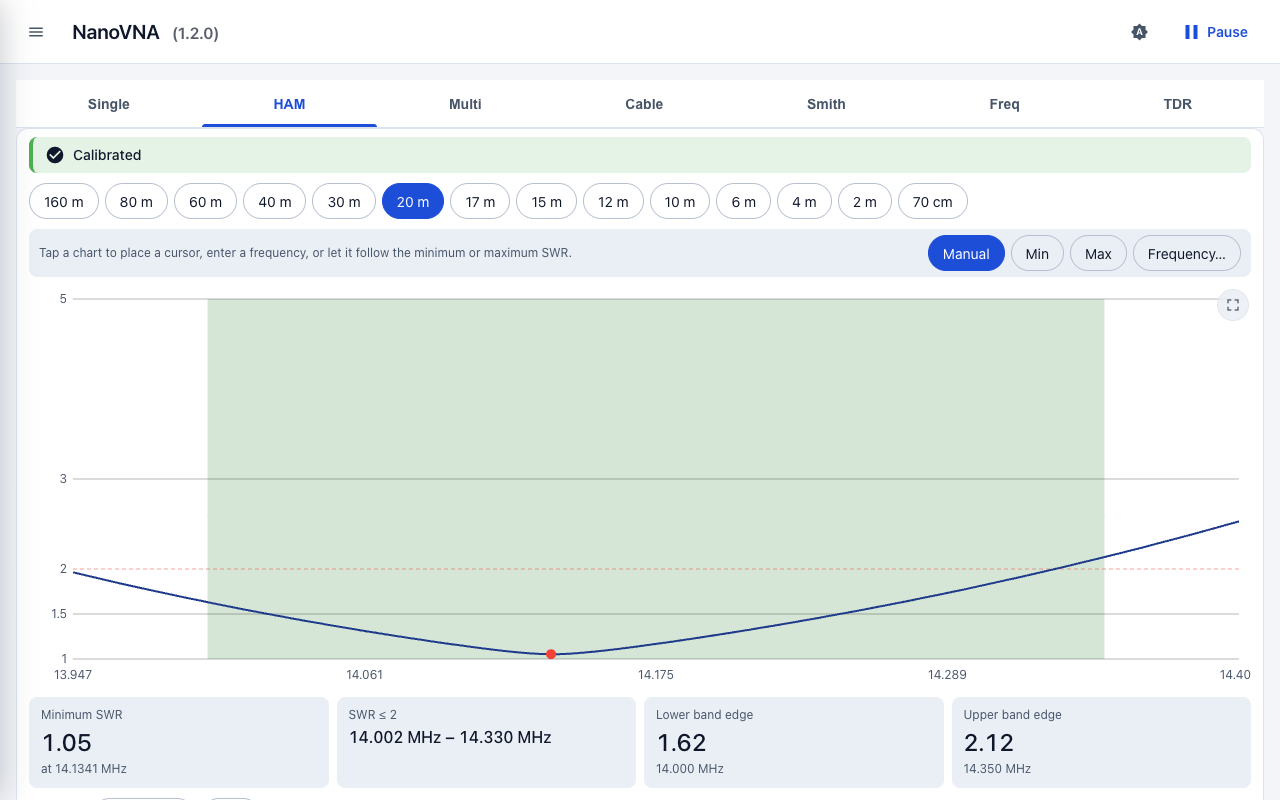
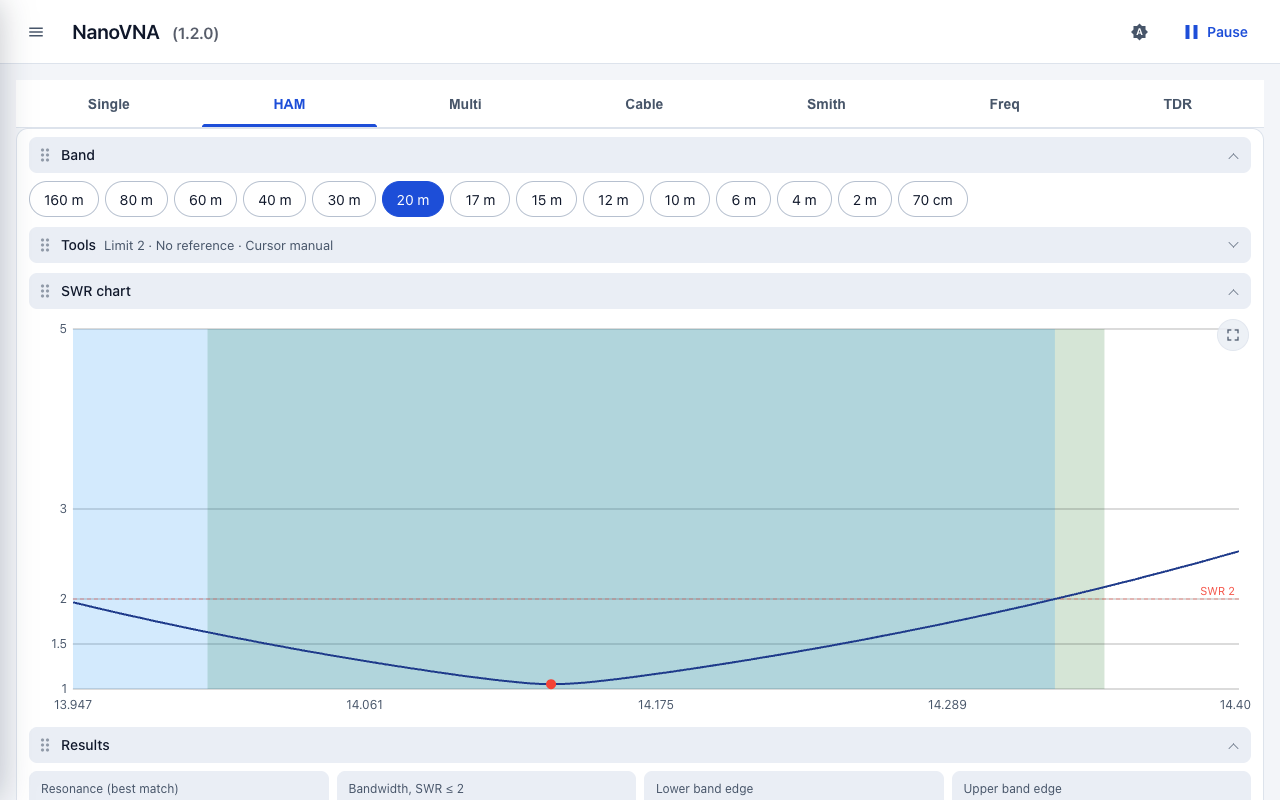
Release 1.3: feature page, README, manual and screenshots refreshed; log chart time labels fit the width
The screenshot script also shoots the log over time. Status and archive updated.

diff --git a/site/index.html b/site/index.html
@@ -228,24 +228,26 @@ footer p { margin: 8px 0; max-width: 780px; }
 <section id="new">
   <div class="wrap">
     <div class="eyebrow"><span lang="en">What is new</span><span lang="de">Neu</span></div>
-    <h2><span lang="en">Version 1.2: sharper, faster, easier to read.</span><span lang="de">Version 1.2: übersichtlicher, schneller, besser lesbar.</span></h2>
+    <h2><span lang="en">Version 1.3: logging over time, tidier views.</span><span lang="de">Version 1.3: Messen über der Zeit, aufgeräumtere Ansichten.</span></h2>
     <div class="split">
       <ul class="points">
-        <li><span lang="en"><b>Full-screen charts.</b> One button blows any chart up to the whole screen.</span><span lang="de"><b>Diagramme im Vollbild.</b> Ein Knopf zieht jedes Diagramm auf den ganzen Bildschirm.</span></li>
-        <li><span lang="en"><b>Markers that follow the extremum.</b> Min and Max track the lowest or highest value on every sweep and say so in the label; with several curves the label names the first trace, which decides.</span><span lang="de"><b>Marker, die dem Extremum folgen.</b> Min und Max verfolgen bei jedem Sweep den tiefsten oder höchsten Wert und stehen so im Label; bei mehreren Kurven nennt das Label die erste Kurve, die entscheidet.</span></li>
-        <li><span lang="en"><b>Marker readout.</b> Delta, search, sweep range from markers, Q, series and parallel circuit.</span><span lang="de"><b>Marker-Anzeige.</b> Delta, Suche, Sweep-Bereich aus Markern, Q, Reihen- und Parallelersatzschaltung.</span></li>
-        <li><span lang="en"><b>More trace formats.</b> Rp, Xp, Q, group delay, Y Smith and polar.</span><span lang="de"><b>Mehr Kurvenformate.</b> Rp, Xp, Q, Gruppenlaufzeit, Y-Smith und Polar.</span></li>
-        <li><span lang="en"><b>Guided calibration.</b> Step by step, with a check that warns when the wrong standard is attached.</span><span lang="de"><b>Geführte Kalibrierung.</b> Schritt für Schritt, mit einer Prüfung, die warnt, wenn der falsche Abschluss angesteckt ist.</span></li>
-        <li><span lang="en"><b>Faster sweeps.</b> Multi, Cable, TDR and the calibration read the data in binary.</span><span lang="de"><b>Schnellere Sweeps.</b> Multi, Kabel, TDR und die Kalibrierung lesen die Daten binär.</span></li>
-        <li><span lang="en"><b>Zoom and a modern look.</b> Two-finger zoom, mouse wheel and drag on the desktop, a new colour scheme in dark and light.</span><span lang="de"><b>Zoom und modernes Aussehen.</b> Zoomen mit zwei Fingern, am Desktop mit Mausrad und Ziehen, ein neues Farbschema in Dunkel und Hell.</span></li>
-        <li><span lang="en"><b>More tools.</b> Port extension, sweep quality dialog (bandwidth, smoothing, power) and a note when the NanoVNA firmware is out of date.</span><span lang="de"><b>Mehr Werkzeuge.</b> Port-Extension, Sweep-Qualität (Bandbreite, Glättung, Leistung) und ein Hinweis, wenn die NanoVNA-Firmware veraltet ist.</span></li>
-        <li><span lang="en"><b>Robust.</b> The app recovers when the connection to the NanoVNA drops, and the Feather's display lists its buttons in the order they sit on the board.</span><span lang="de"><b>Robust.</b> Die App erholt sich, wenn die Verbindung zum NanoVNA abbricht, und das Display des Feathers nennt die Tasten in der Reihenfolge, in der sie auf der Platine sitzen.</span></li>
+        <li><span lang="en"><b>Log over time.</b> In the Single view, start and stop a log of the chosen frequency with an interval you choose. Watch SWR, return loss, R and X, |Z|, Rp and Xp, Q, |Γ| or phase over time, pick the time window, export a CSV. The log is kept in the browser and survives a reload.</span><span lang="de"><b>Messen über der Zeit.</b> In der Single-Ansicht lässt sich ein Log der gewählten Frequenz mit frei wählbarem Intervall starten und stoppen. SWR, Rückflussdämpfung, R und X, |Z|, Rp und Xp, Q, |Γ| oder Phase über der Zeit, wählbares Zeitfenster, Export als CSV. Das Log bleibt im Browser und übersteht ein Neuladen.</span></li>
+        <li><span lang="en"><b>Keep screen on.</b> Stops the phone from turning the screen off during a long log (where the browser allows it).</span><span lang="de"><b>Bildschirm anlassen.</b> Verhindert bei einem langen Log, dass das Handy den Bildschirm ausschaltet (wo der Browser es erlaubt).</span></li>
+        <li><span lang="en"><b>SWR limit and bandwidth.</b> HAM and Multi draw a limit line at SWR 1.5, 2 or 3 and show the bandwidth around the resonance and the impedance at the minimum.</span><span lang="de"><b>SWR-Grenze und Bandbreite.</b> HAM und Multi zeichnen eine Grenzlinie bei SWR 1,5, 2 oder 3 und zeigen die Bandbreite um die Resonanz und die Impedanz im Minimum.</span></li>
+        <li><span lang="en"><b>Reference sweep per band.</b> Save a sweep of an antenna, show it behind the live curve and compare the minimum before and after an adjustment.</span><span lang="de"><b>Referenz-Sweep pro Band.</b> Einen Sweep einer Antenne speichern, hinter der Live-Kurve anzeigen und das Minimum vor und nach einer Änderung vergleichen.</span></li>
+        <li><span lang="en"><b>Foldable, movable sections.</b> Fold what you do not need and drag the sections of HAM and Multi into your own order; the app remembers both. The Calibration header turns green when calibrated.</span><span lang="de"><b>Faltbare, verschiebbare Bereiche.</b> Was du nicht brauchst, klappst du zu, und die Bereiche von HAM und Multi ziehst du in deine Reihenfolge; die App merkt sich beides. Der Kalibrierungs-Kopf wird grün, wenn kalibriert ist.</span></li>
+        <li><span lang="en"><b>Your choice of values.</b> Impedance as R + jX or as |Z| and angle, match as SWR or return loss.</span><span lang="de"><b>Werte nach Wahl.</b> Impedanz als R + jX oder als |Z| und Winkel, Anpassung als SWR oder Rückflussdämpfung.</span></li>
+        <li><span lang="en"><b>On the Feather.</b> The status screen says "WiFi + browser" while a browser is connected.</span><span lang="de"><b>Am Feather.</b> Der Statusbildschirm zeigt „WiFi + browser“, solange ein Browser verbunden ist.</span></li>
       </ul>
-      <div class="phone"><img loading="lazy" src="img/phone-freq.png" alt="Freq view with a marker following the maximum" width="780" height="1688"></div>
+      <div class="phone"><img loading="lazy" src="img/phone-single-log.png" alt="The log over time in the Single view: SWR over 25 seconds" width="780" height="1688"></div>
     </div>
     <div class="themes">
-      <div class="phone"><img loading="lazy" src="img/phone-freq-full.png" alt="The Freq chart in full screen" width="780" height="1688"></div>
+      <div class="phone"><img loading="lazy" src="img/phone-ham.png" alt="HAM view with foldable sections and a limit line at SWR 2" width="780" height="1688"></div>
     </div>
+    <p class="sub">
+      <span lang="en">Version 1.2 brought full-screen charts, markers that follow the extremum, more trace formats, a guided calibration and faster sweeps.</span>
+      <span lang="de">Version 1.2 brachte Diagramme im Vollbild, Marker, die dem Extremum folgen, mehr Kurvenformate, eine geführte Kalibrierung und schnellere Sweeps.</span>
+    </p>
   </div>
 </section>
 
@@ -259,7 +261,7 @@ footer p { margin: 8px 0; max-width: 780px; }
     </p>
     <div class="gallery">
       <div class="shot"><div class="phone"><img loading="lazy" src="img/phone-single.png" alt="Single frequency view" width="780" height="1688"></div>
-        <b>Single</b><span lang="en">SWR, return loss, R and X at one frequency</span><span lang="de">SWR, Rückflussdämpfung, R und X bei einer Frequenz</span></div>
+        <b>Single</b><span lang="en">SWR, return loss, R and X at one frequency, with a log over time</span><span lang="de">SWR, Rückflussdämpfung, R und X bei einer Frequenz, mit Log über der Zeit</span></div>
       <div class="shot"><div class="phone"><img loading="lazy" src="img/phone-ham-extras.png" alt="HAM view with return loss and R/X charts" width="780" height="1688"></div>
         <b>HAM</b><span lang="en">A whole band with its minimum, SWR ≤ 2 range and extra charts</span><span lang="de">Ein ganzes Band mit Minimum, SWR-≤-2-Bereich und Zusatzdiagrammen</span></div>
       <div class="shot"><div class="phone"><img loading="lazy" src="img/phone-multi.png" alt="Multi view with band cards" width="780" height="1688"></div>

diff --git a/client/src/components/SingleLog.vue b/client/src/components/SingleLog.vue
@@ -81,7 +81,8 @@ const curves = computed(() => series.value.map((s) => {
     return { cls: s.cls, d };
 }));
 
-const xticks = computed(() => [0, 0.25, 0.5, 0.75, 1].map(f => ({ x: L + f * (W.value - L - R), label: clockLabel(t0.value + f * span.value, span.value) })));
+const xticks = computed(() => { const n = Math.max(1, Math.min(4, Math.floor((W.value - L - R) / 90))); // a clock label is about 80 px wide with some air
+    return Array.from({ length: n + 1 }, (_, i) => i / n).map(f => ({ x: L + f * (W.value - L - R), label: clockLabel(t0.value + f * span.value, span.value) })); });
 
 const unit = computed(() => cfg.value.unit);
 const chartTitle = computed(() => cfg.value.title + ' over time');

diff --git a/README.md b/README.md
@@ -20,9 +20,11 @@ More pictures and a short tour: **[feature page](https://ckonecny.github.io/nano
 
 ## What it does
 
-- **Single frequency:** SWR, return loss, impedance (R + jX), |Γ| and phase at one frequency.
-- **Ham bands (HAM):** sweep a band, see the SWR curve, the minimum, the range with SWR ≤ 2, plus return loss and R / X charts.
-- **Multi:** compare several bands side by side, each swept in turn.
+- **Single frequency:** SWR, return loss, impedance (R + jX or |Z| and angle), |Γ| and phase at one frequency, with a **log over time**
+  (start/stop, your interval, eight formats, CSV export, kept in the browser).
+- **Ham bands (HAM):** sweep a band, see the SWR curve with a limit line (1.5, 2 or 3), the minimum, the bandwidth around the resonance,
+  plus return loss and R / X charts, and a saved reference sweep per band to compare before and after an adjustment.
+- **Multi:** compare several bands side by side, each swept in turn. HAM and Multi have foldable sections you can move.
 - **Calibration once for all bands:** open, short and load, each connected once. The app corrects all 14 ham bands from
   160 m to 70 cm, the result is stored in the device and every browser uses it.
 - **Cables:** length, velocity factor, loss and characteristic impedance of a coax cable, stub lengths.
@@ -30,7 +32,7 @@ More pictures and a short tour: **[feature page](https://ckonecny.github.io/nano
 - **Smith and Freq:** your own sweep as a Smith chart or as curves, with markers, scales and several traces.
 - **Export:** Touchstone `.s1p` / `.s2p` files and PNG pictures of the charts.
 - **Phone first:** dark and light theme, a layout that follows the screen size, works on desktop too.
-- **Device display and buttons:** the Feather shows the WiFi, the address and the USB state; three buttons choose the
+- **Device display and buttons:** the Feather shows the WiFi (and whether a browser is connected), the address and the USB state; three buttons choose the
   network. Up to eight WiFi networks can be stored (home, hotspot, ...), with a setup WiFi as fallback.
 - **Updates over WiFi**, no cable needed after the first flash.
 
@@ -41,7 +43,7 @@ More pictures and a short tour: **[feature page](https://ckonecny.github.io/nano
 ```
 
 <p align="center">
-  <img src="site/img/feather-status.jpg" width="330" alt="The Feather's status screen: WiFi connected, USB device found">
+  <img src="site/img/feather-status.jpg" width="330" alt="The Feather's status screen: WiFi, address and USB device found">
   <img src="site/img/feather-menu.jpg" width="330" alt="The Feather's menu">
 </p>
 

diff --git a/docs/STATUS.md b/docs/STATUS.md
@@ -1,12 +1,12 @@
 # Status
 
-Repo: github.com/ckonecny/nanovna-remote (public), latest release v1.2.0. Open features and bugs: GitHub issues
+Repo: github.com/ckonecny/nanovna-remote (public), latest release v1.3.0. Open features and bugs: GitHub issues
 (CLAUDE.md rule 9). Finished work: `docs/STATUS-ARCHIVE.md`. Decisions and hardware findings: `docs/DECISIONS.md`.
 This file holds only the current state and hints for the next session.
 
-## Current state (2026-11-03)
-- Solid state, everything committed and pushed; v1.2.0 released (full-screen charts, marker labels and Min/Max, guided
-  calibration, scan_bin, status screen button order); the feature page and all screenshots are current.
+## Current state (2026-11-05)
+- Solid state, everything committed and pushed; v1.3.0 released (log over time and Keep screen on in Single, SWR limit and bandwidth,
+  reference sweep, foldable sections, value display choice, "WiFi + browser" on the Feather); the feature page, README, manual and all screenshots are current.
 - Firmware: bridge, web app, OTA (`/update` page and `/api/ota`), calibration storage, multi-network WiFi, display UI,
   QR codes. Flash 87.3 % of the app slot (over 85 %, about 200 KB free; the user decided to leave it until it gets tight).
 - Web app: Single, HAM, Multi, Cable, TDR, Smith, Freq views, app-side OSL calibration, export. Live demo with a simulated
@@ -15,7 +15,6 @@ This file holds only the current state and hints for the next session.
   the site with the installer manifest (about 10 min, Pages caches 10 min). Tagging needs the user's explicit OK.
 
 ## Open checks
-- Single-frequency log (#13, raw values, eight formats) and Keep screen on: built, tested in the demo (log, reload restores it, every format); flashed. Not yet tried on the phone: IndexedDB after a reload, a long run, and whether the wake lock really is unavailable over HTTP (the menu entry should be greyed out and say so).
 - iPhone Safari in landscape: the readout overlapped the inputs and chips (user screenshot). Fixed by putting inputs and readout in one `.side-column` grid cell; Chromium checked at 844x390 and portrait, flashed; the user still has to look at it in Safari.
 - Compiler warnings in `web.cpp` fixed (route helper) and `dns.cpp` no longer logs every query: flashed, device runs.
 - Modern look (system font, new colours, rounded shapes; light and dark): built and flashed; not yet looked at on the phone. Yellow trace colour replaced by orange.

diff --git a/docs/STATUS-ARCHIVE.md b/docs/STATUS-ARCHIVE.md
@@ -3,6 +3,8 @@
 Finished items, moved here from `docs/STATUS.md` (newest first).
 
 ## 2026-11
+- Release v1.3.0 (feature page, README, manual and screenshots refreshed; the screenshot script also shoots the log). Status screen shows "WiFi + browser" while a browser holds the bridge (checked on the Feather), D1/D2 hint order fixed.
+- Single-frequency log over time (#13: start/stop, interval, raw values, eight formats, IndexedDB, CSV) and Keep screen on (Wake Lock, HTTPS only): flashed and tried on the phone, works. Time labels of the log chart now fit the width (no overlap on a phone).
 - Switchable display of impedance (R + jX or |Z| and angle) and match (SWR or return loss) (#20): sidebar dialog, `lib/valuefmt.js`, manual EN + DE. Flashed and tried on the phone, works.
 - Reference sweep per band in HAM (#9: save, show/hide, replace, delete, comparison with the live minimum, date if not from today) and foldable, movable sections in HAM and Multi (`Fold.vue`, `lib/order.js`; calibration status as green header / orange banner): flashed and tried on the phone, works.
 - SWR limit (1.5 / 2 / 3), limit line, bandwidth around the resonance and R + jX at the minimum in HAM and Multi (#11, #12): `lib/resonance.js`, tests, manual EN + DE; flashed and tried on the phone, works.

diff --git a/manual/manual_de.md b/manual/manual_de.md
@@ -127,6 +127,10 @@ X, die Reaktanz als Induktivität oder Kapazität (in Reihe), |Γ| und die Phase
 **Log over time (Verlauf).** Der Bereich ganz unten (zu Beginn eingeklappt) zeichnet die Messwerte der gewählten Frequenz auf und zeigt sie über der
 Zeit, um eine Drift zu beobachten (Temperatur, nasse Antenne) oder ein Anpassnetzwerk mit Live-Rückmeldung abzustimmen.
 
+<img src="../site/img/phone-single-log.png" width="260" alt="Das Log über der Zeit in der Single-Ansicht">
+
+<sub>Das Log über der Zeit (simulierte Werte): SWR der gewählten Frequenz, hier mit einer anderen Last, die für ein paar Sekunden angeschlossen war.</sub>
+
 - **Start** / **Stop** beginnen und beenden die Aufzeichnung; **Continue** setzt ein vorhandenes Log fort. **Every** stellt den Abstand zweier
   Punkte ein (jede Messung des Geräts, 1 s, 5 s, 30 s oder 1 min). Aufgezeichnet wird nur, solange die Single-Ansicht offen ist, bei der
   angezeigten Frequenz und nicht während einer Kalibrierung; eine Lücke (andere Ansicht, Pause) wird im Diagramm nicht verbunden.

diff --git a/manual/manual_en.md b/manual/manual_en.md
@@ -122,6 +122,10 @@ inductance or capacitance (series), |Γ| and the phase. A chart around the frequ
 **Log over time.** The section at the bottom (folded at first) records the readings of the chosen frequency and draws them over time, to watch
 drift (temperature, a wet antenna) or to tune a matching network with live feedback.
 
+<img src="../site/img/phone-single-log.png" width="260" alt="The log over time in the Single view">
+
+<sub>The log over time (simulated values): SWR of the chosen frequency, here with another load connected for a few seconds.</sub>
+
 - **Start** / **Stop** begin and end the recording; **Continue** carries on with an existing log. **Every** sets the time between two points
   (every reading of the device, 1 s, 5 s, 30 s or 1 min). It records only while the Single view is open, at the frequency shown, and not
   during a calibration; a gap (another view, paused) is not joined up in the chart.
